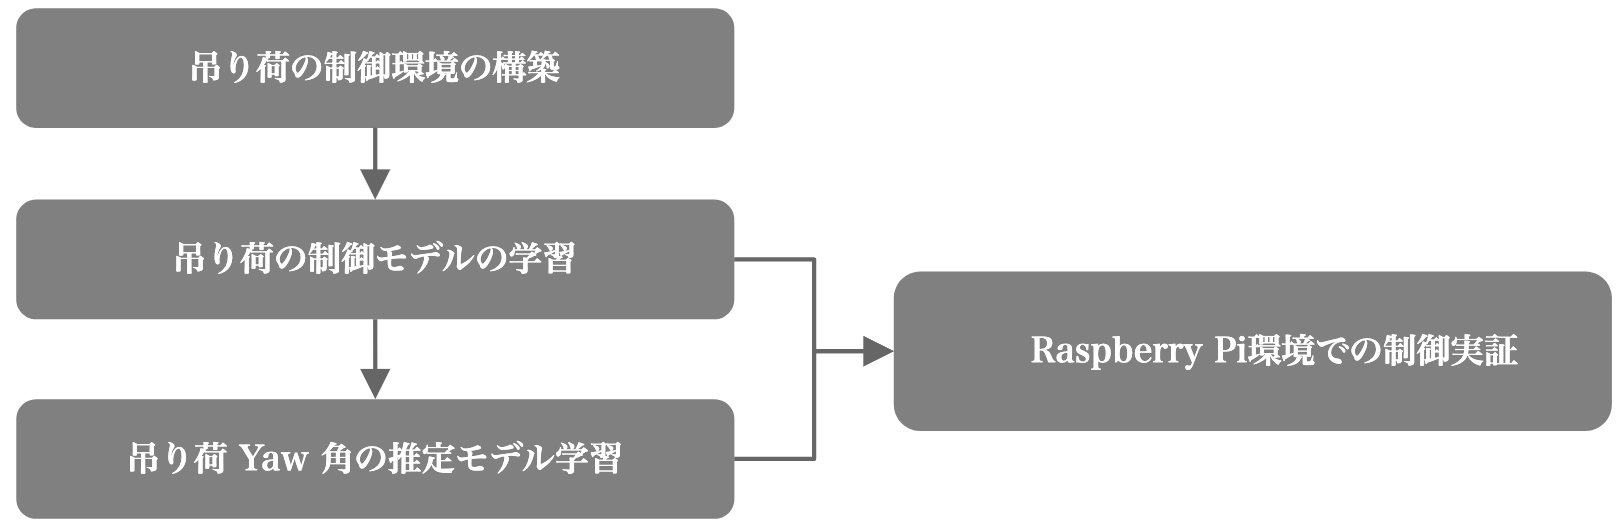
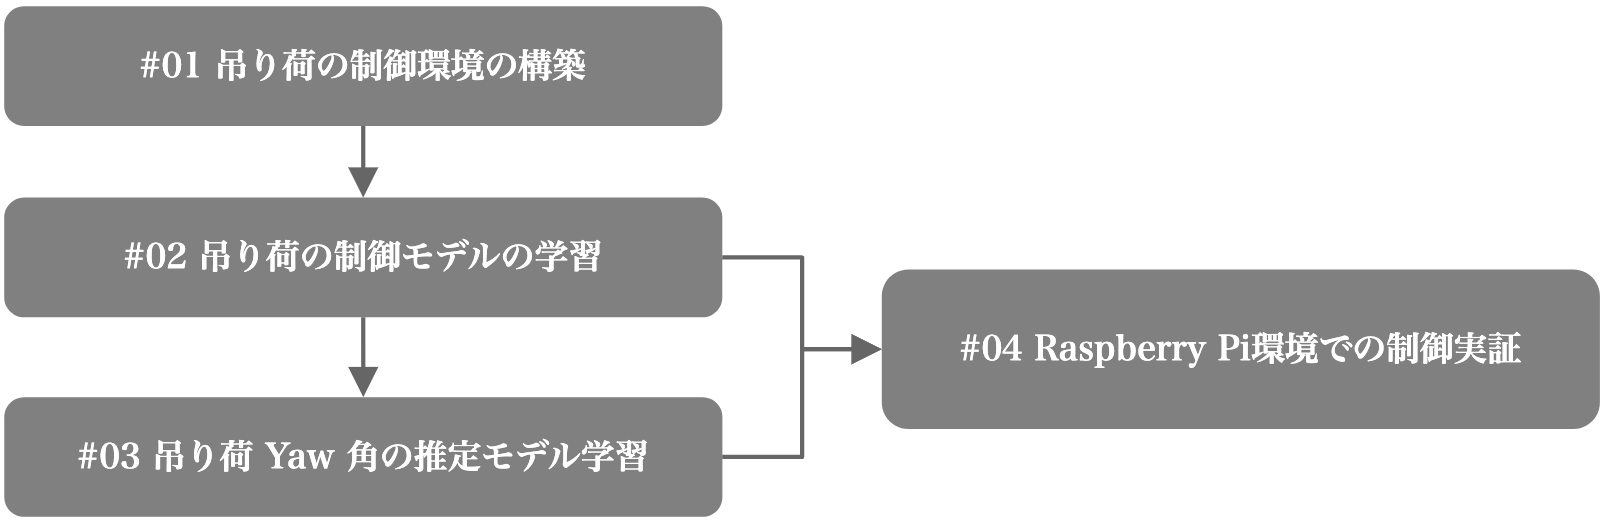
Add Zenn article #01 for payload yaw control

diff --git a/articles/a8b6189171848f.md b/articles/a8b6189171848f.md
@@ -23,8 +23,184 @@ published: false
 #03 カメラ画像からYaw角を推定する
 #04 Raspberry Piで画像ベース制御を実証する
 
-本記事では、このうち最初のステップとなる「**吊り荷の制御環境の構築**」について紹介します。
+本記事では、このうち最初のステップとなる「**#01 吊り荷の制御環境の構築**」について Blender による 3Dシミュレーション環境の構築について紹介します。
 
-## 吊り荷の制御環境を構築する
+## 開発環境
 
-<!-- ここから第1回の本文 -->
+吊り荷のシミュレーション環境は、Ubuntu上のBlenderを使用して構築しました。
+
+| 項目 | 環境 |
+| --- | --- |
+| OS | Ubuntu 24.04 LTS |
+| 3Dシミュレーション | Blender 5.1.2 |
+
+## Blenderオブジェクトの構成
+
+Blender上に、クレーン、スラスター機体、吊り荷を配置し、吊り荷の旋回をシミュレーションできる環境を構築しました。
+
+![](/images/payload-yaw-control/01/crane.png)
+
+シミュレーション環境は、主に以下のオブジェクトで構成しています。
+
+- **クレーン**
+  - 吊り荷を支持するクレーンモデル
+  - クレーン先端からスラスター機体を吊り下げる
+
+- **制御装置**
+  - 吊り荷の上部に配置
+  - 4基のスラスターを搭載
+  - スラスターの推力によって機体および吊り荷をYaw方向に旋回させる
+
+- **吊り荷**
+  - H鋼（HSteel）
+  - 平板（Plate）
+  - トラス（Truss）
+
+形状による制御特性の違いを確認するため、吊り荷は3種類用意しました。
+
+### 制御装置
+
+吊り荷の上部に、4基のスラスターを備えた制御装置を配置します。
+![](/images/payload-yaw-control/01/thruster.png)
+
+
+各スラスターの出力を組み合わせることで、時計回り（CW）または反時計回り（CCW）の回転力を発生させます。同じ回転方向となる対角位置の2基を組み合わせることで、Yaw方向の旋回を制御します。
+
+![](/images/payload-yaw-control/01/thruster_forces_en.png)
+
+図中の `[1,0,0,0]` などは、4基のスラスターへの出力指令を表しています。
+
+
+### スラスター出力とYaw回転
+
+各スラスターを単独で最大出力（250 N）とした場合の動作を確認します。対角位置のスラスターは、同じ回転方向のYawモーメントを発生させます。
+
+@[youtube](TdAca_NXTxE)
+
+強化学習による制御では、4基のスラスター出力を組み合わせることで、
+吊り荷を目標Yaw角へ旋回させます。
+
+### 吊り荷
+
+形状や大きさの異なる吊り荷に対する制御性能を確認するため、H鋼、平板、トラスの3種類の吊り荷モデルを用意しました。
+
+#### H鋼（HSteel）
+![](/images/payload-yaw-control/01/hsteel.png)
+
+#### 平板（Plate）
+
+![](/images/payload-yaw-control/01/plate.png)
+
+#### トラス（Truss）
+
+![](/images/payload-yaw-control/01/truss.png)
+
+### クレーンとオブジェクトの位置関係
+
+スラスター機体はクレーンからロープで吊り下げ、その下にさらに吊り荷を配置しています。
+
+![](/images/payload-yaw-control/01/object_heights.png)
+
+
+クレーンの旋回中心からスラスター機体までの距離は約 10.7m、スラスター機体から吊り荷までの距離は約 3.8m としました。
+
+また、シミュレーションではクレーンを固定した状態だけでなく、クレーンを旋回させながら吊り荷のYaw角を制御します。クレーンは約50秒かけて90°旋回し、その後は停止した状態で60秒までシミュレーションを継続します。
+![](/images/payload-yaw-control/01/crane_rotation.png)
+
+
+## Blender Pythonスクリプト
+
+### ロープを接続点に追従させる
+
+クレーン、制御装置、吊り荷の間には、吊り下げ状態を視覚的に表現するためのロープオブジェクトを配置しています。オブジェクト間の物理的な位置関係や運動は、PyBullet を使用した物理シミュレーションで計算します。物理シミュレーションの設定については、別の記事で紹介します。
+
+Blender 側では、物理シミュレーションによって変化する各接続点に、ロープの両端を追従させます。H鋼の場合の主な接続点を以下に示します。
+
+![](/images/payload-yaw-control/01/rope-attachment-points.png)
+
+ロープの接続関係は、ロープ名と両端のオブジェクト名の組として定義しています。
+
+```python
+ROPE_PAIRS = [
+    ("Rope_CraneBoomL_HookL", "Crane_Boom_L", "Crane_Hook_L"),
+    ("Rope_CraneBoomR_HookR", "Crane_Boom_R", "Crane_Hook_R"),
+
+    ("Rope_HookB_THRTopL", "Crane_Hook_B", "THR_Top_L"),
+    ("Rope_HookB_THRTopR", "Crane_Hook_B", "THR_Top_R"),
+
+    # HSteel
+    ("Rope_THRT_HSteel_Blue", "THR_Bottom_R", "HSteel_Cramp_Blue"),
+    ("Rope_THRT_HSteel_Red",  "THR_Bottom_L", "HSteel_Cramp_Red"),
+]
+```
+
+この接続情報をもとにロープオブジェクトを設定し、両端の接続位置に追従させます。
+
+`register_ropes()` では、ロープを2点のPolylineとして初期化した後、`frame_change_pre` ハンドラに更新処理を登録します。これにより、シミュレーションの各フレームでロープの両端位置が更新されます。
+
+```python
+def register_ropes():
+    # Curveを2点Polyline化
+    for rope_name, _, _ in ROPE_PAIRS:
+        rope = bpy.data.objects.get(rope_name)
+        if rope is None:
+            print(f"[Missing Rope] {rope_name}")
+            continue
+        ensure_polyline_curve(rope)
+
+    # 初回更新
+    update_all_ropes()
+
+    # 既存ハンドラ削除
+    bpy.app.handlers.frame_change_pre[:] = [
+        h for h in bpy.app.handlers.frame_change_pre
+        if h.__name__ != "update_all_ropes"
+    ]
+
+    # フレーム更新時に追従
+    bpy.app.handlers.frame_change_pre.append(update_all_ropes)
+
+    print("Rope registration completed.")
+```
+
+他の吊り荷（平板、トラス）も同様に設定します。
+
+### シミュレーション結果をBlenderで再現する
+
+PyBullet によるシミュレーションでは、クレーン、制御装置、吊り荷の位置・姿勢をフレームごとに CSV ファイルへ記録します。Blender では、このCSVファイルを読み込み、各オブジェクトの位置と姿勢をキーフレームとして設定することで、シミュレーション結果をアニメーションとして再現します。
+
+```python
+st_obj.location = Vector((
+    float(row["thr_x"]),
+    float(row["thr_y"]),
+    float(row["thr_z"]),
+))
+
+st_obj.rotation_euler = Euler((
+    math.radians(float(row["thr_roll"])),
+    math.radians(float(row["thr_pitch"])),
+    ST_INIT_ROT.z + (
+        math.radians(float(row["thr_yaw"]))
+        - math.radians(st0["yaw"])
+    ),
+), "XYZ")
+
+st_obj.keyframe_insert(data_path="location", frame=frame)
+st_obj.keyframe_insert(data_path="rotation_euler", frame=frame)
+```
+制御装置と吊り荷については、CSV ファイルに記録した XYZ 位置と Roll/Pitch/Yaw を Blender の座標・回転へ反映します。各フレームで `keyframe_insert()` を実行することで、PyBullet で得られた運動を Blender 上のアニメーションとして再構成します。
+
+このアニメーションは結果を可視化するだけでなく、吊り荷の揺れや制御装置との相対的な動きなど、**数値だけでは把握しにくい挙動を目視で確認する**ためにも使用します。
+
+以下は、トラスのYaw制御結果をBlender上で再現し、吊り荷の挙動を目視確認した例です。
+
+@[youtube](sQACPwAOBnU)
+
+## シリーズ構成
+
+本シリーズでは、吊り荷Yaw制御システムの開発過程を段階的に紹介します。
+
+- **#01 制御環境を構築する ← 今回**
+- #02 強化学習による制御モデルを学習する
+- #03 カメラ画像からYaw角を推定する
+- #04 Raspberry Piで画像ベース制御を実証する
